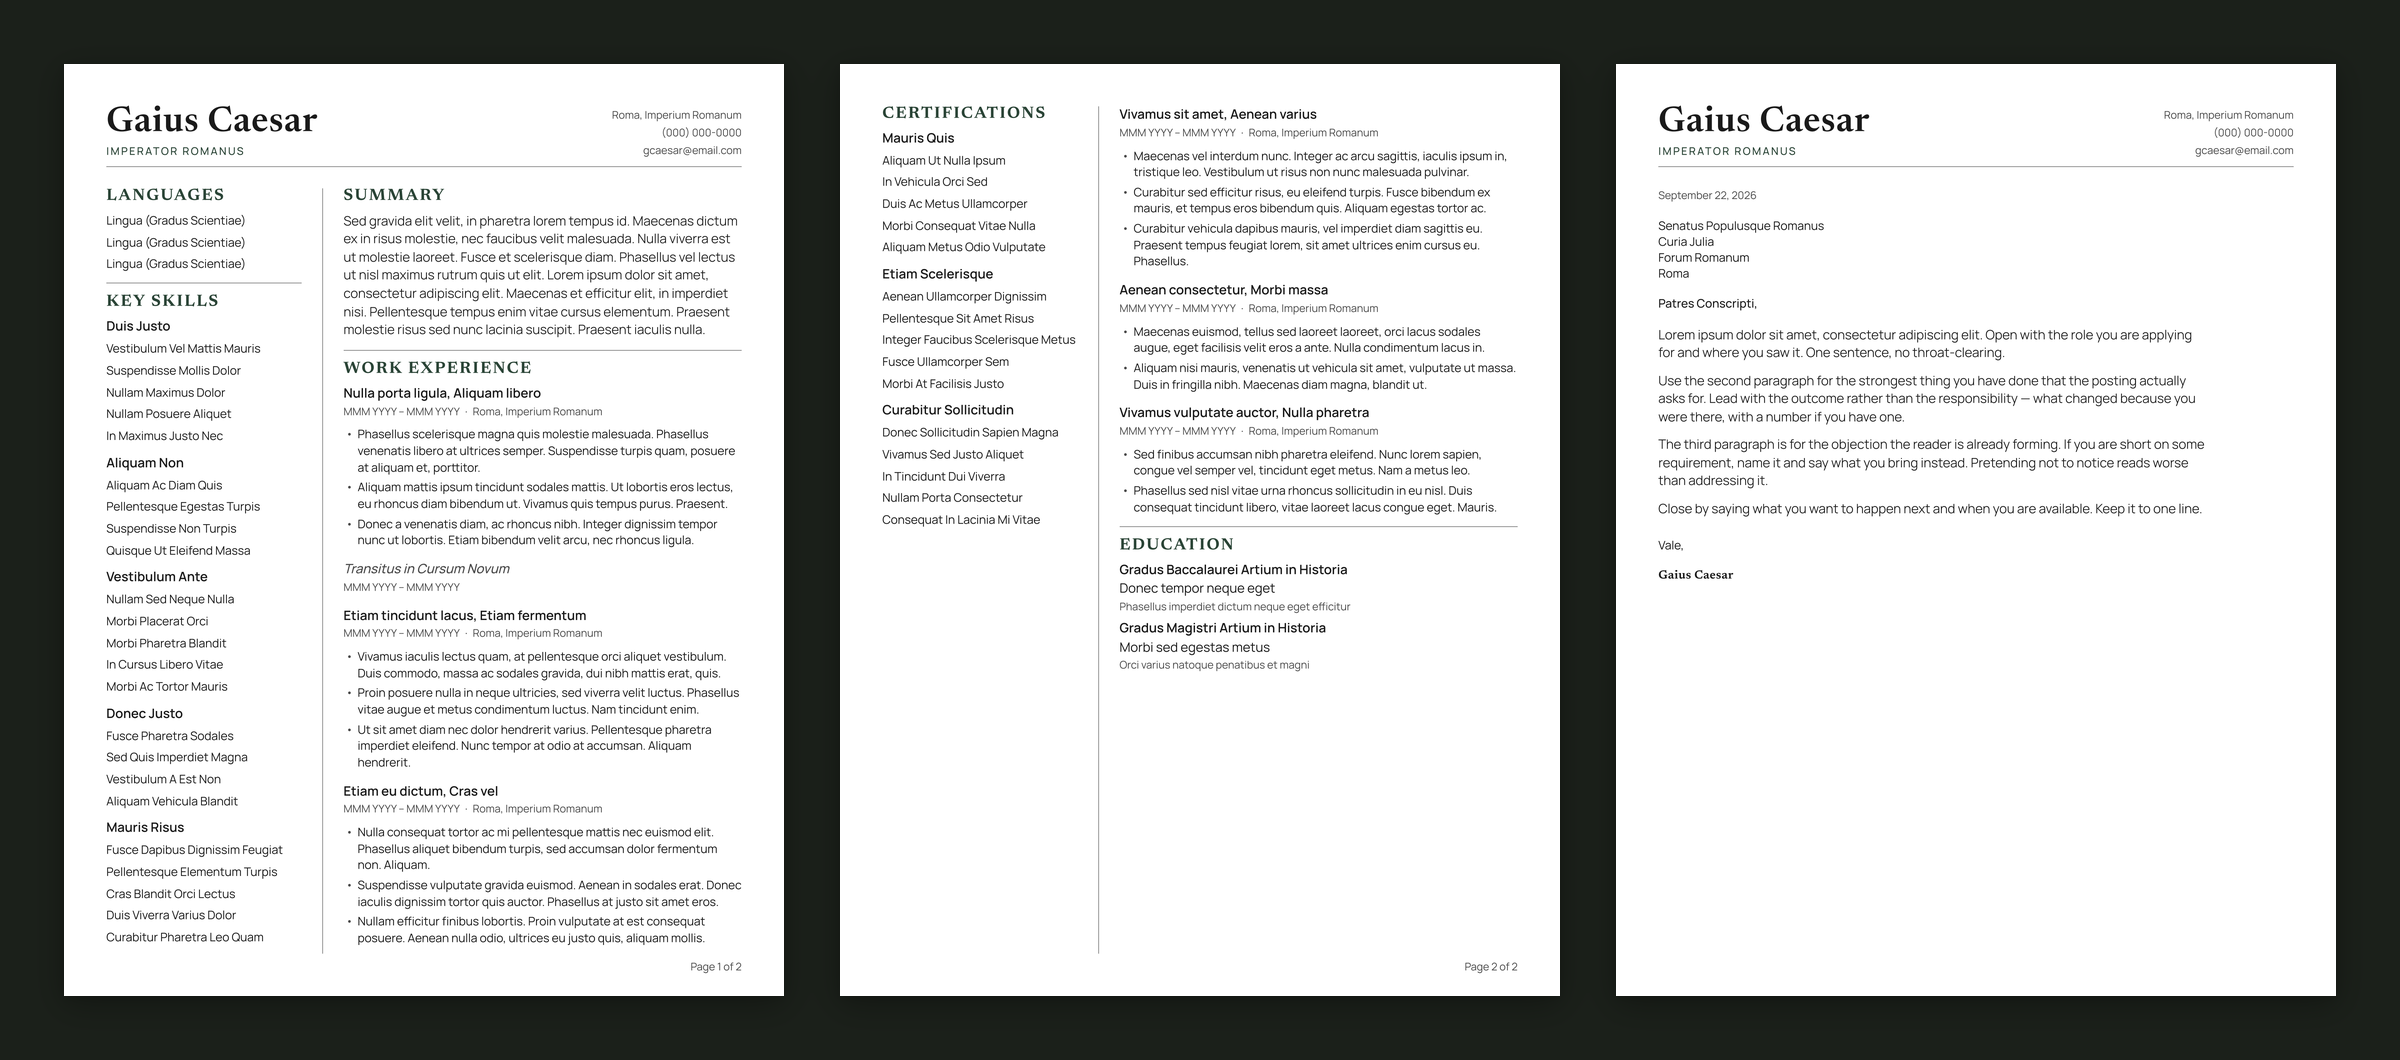
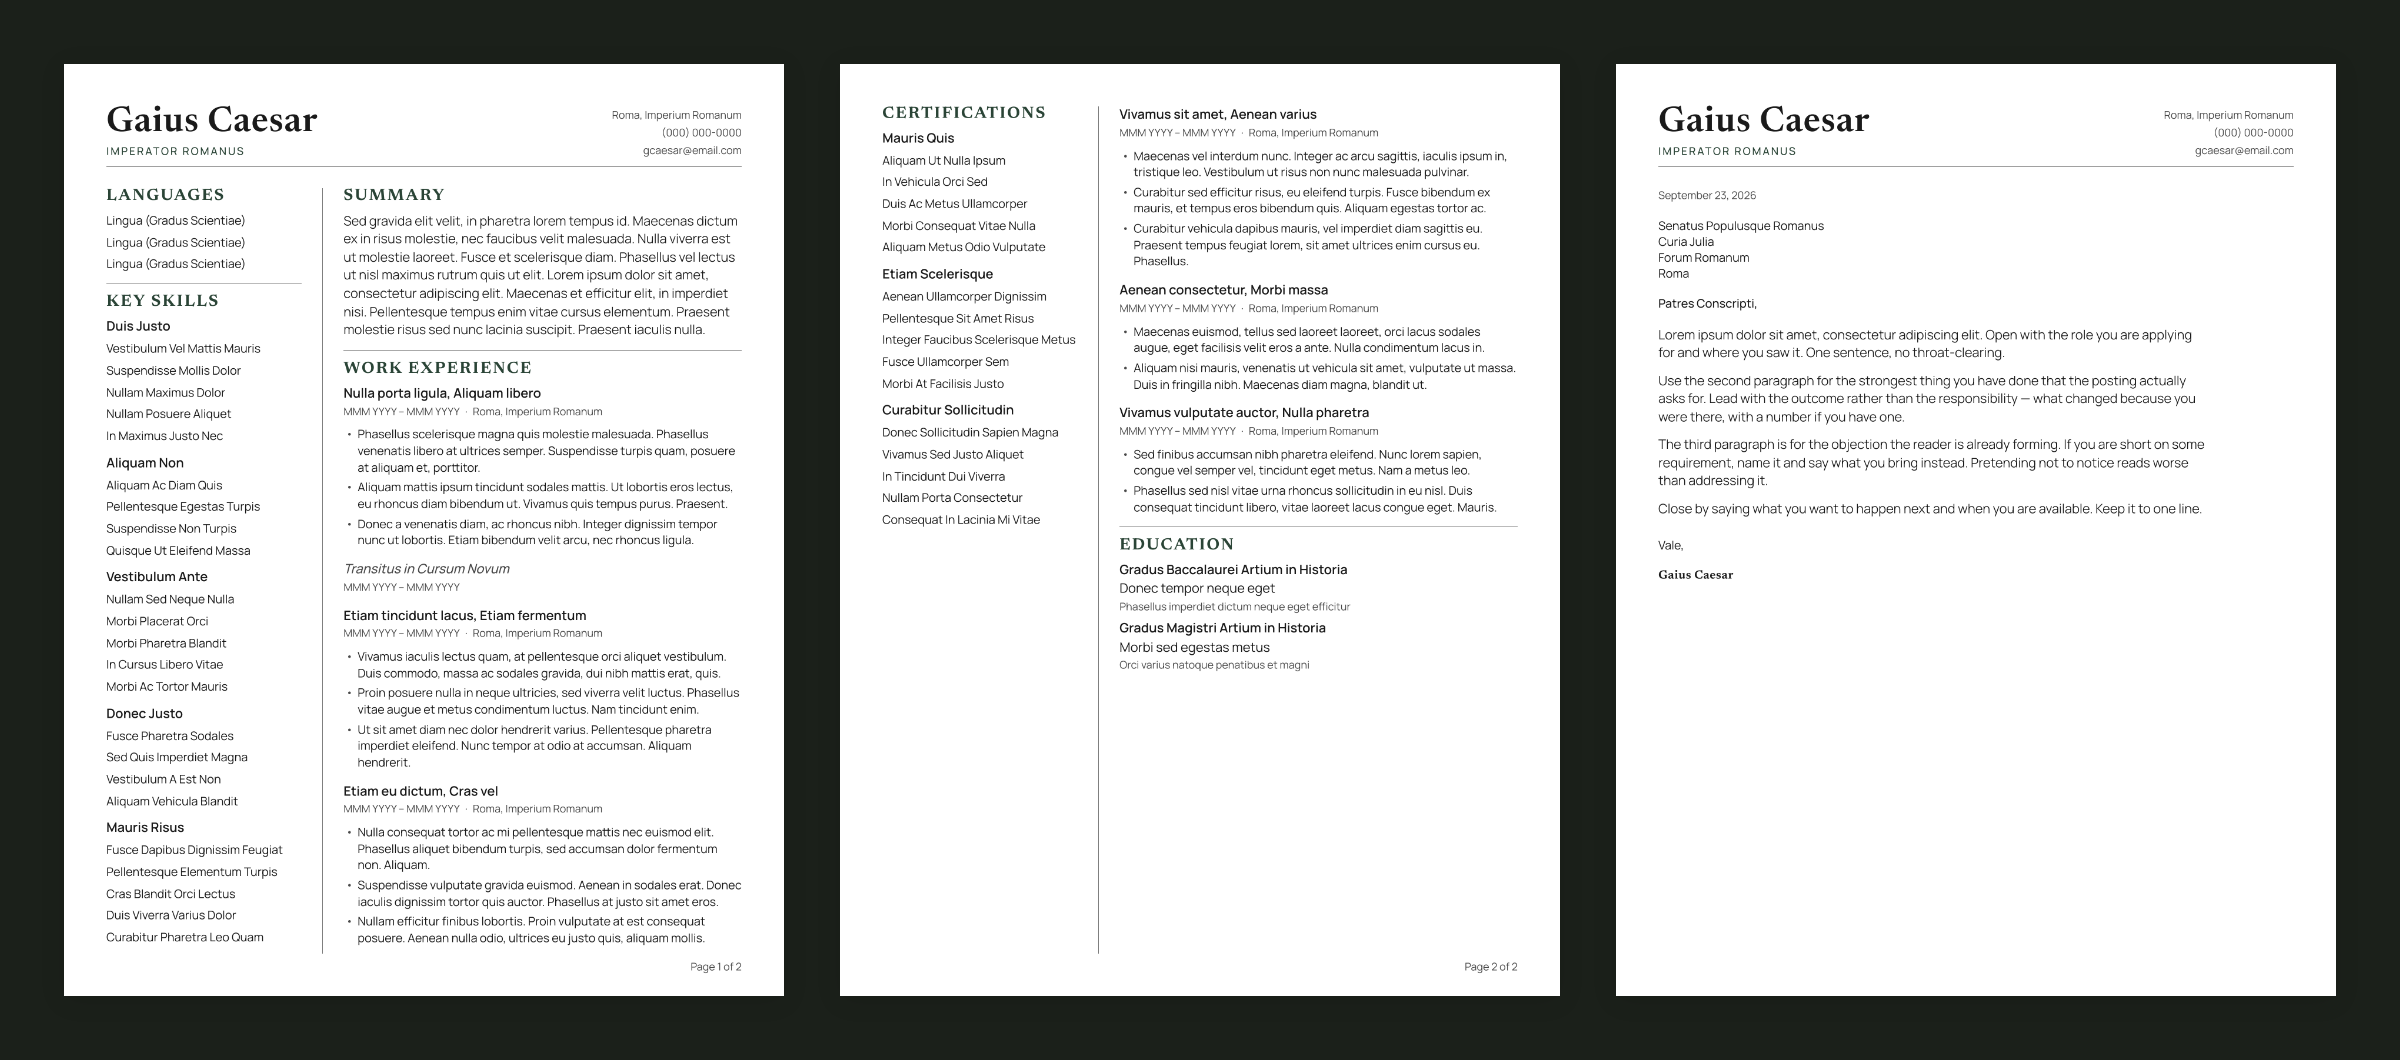
Docs: fix stale README wording, rebuild screenshots
The snapshot section still described two PDFs per build (any variant,
both built PDFs, Resume*.pdf); it now describes one. Six test suites
launch Chromium, not seven, since test_print_parallel.js went.
Auto-bootstrap creates only the current data source's fixture, and
the text now says so.

Screenshots recaptured in one session. The previous Studio captures
fell back to system fonts (the UI's Google Fonts request was
unreachable), showed a cached no-op render in the inspector, and
documents.png carried a letter dated a day earlier than the rest.

Changed region(s): [[0.1562, 0.4358, 0.1875, 0.467]]

diff --git a/README.md b/README.md
@@ -554,7 +554,7 @@ your profile: `dist/Gaius_Caesar_Resume.pdf`.
 ```
 
 Step 7 is a gate — the build stops if it fails. Step 0 is a gate when
-it runs. Step 10 reports and does not block: the PDFs are written
+it runs. Step 10 reports and does not block: the PDF is written
 before it runs, so a difference is news about the document rather than
 a reason to withhold it. `RESUME_SNAPSHOT=strict` restores blocking,
 for CI.
@@ -761,7 +761,7 @@ slow visual-regression snapshot test for the rendered PDFs.
 ### Unit tests
 
 Python and JavaScript test files live in `tests/`. Most are fast
-pure-logic tests; seven launch Chromium.
+pure-logic tests; six launch Chromium.
 
 | Test                          | What it covers                              |
 |-------------------------------|---------------------------------------------|
@@ -835,12 +835,12 @@ treats the argument as a Python `unittest` dotted path.
 doesn't try to import its heavy dependencies (`pypdfium2`, `Pillow`).
 It is **off by default**; tick "Compare against snapshot" in the
 Studio, or set `RESUME_SNAPSHOT=on` on the command line. It rasterizes
-the freshly built resume PDFs (`dist/<First>_<Last>_Resume*.pdf`,
-found through `dist/pdf_meta.json`), compares each page-by-page to a
-committed fixture, and reports any variant whose visible pixels
-changed beyond the configured tolerance.
+the freshly built resume PDF (`dist/<First>_<Last>_Resume.pdf`,
+found through `dist/pdf_meta.json`), compares it page by page to a
+committed fixture, and reports whether its visible pixels changed
+beyond the configured tolerance.
 
-It reports rather than fails, because the PDFs are already written by
+It reports rather than fails, because the PDF is already written by
 the time it runs — a difference is news about the document, not a
 reason to withhold it. `RESUME_SNAPSHOT=strict` makes it fail the
 build instead, which is what you want in CI.
@@ -874,9 +874,10 @@ silently compared your resume against the template.
 #### First build (no fixtures yet)
 
 Build with "Compare against snapshot" ticked. The snapshot step
-auto-bootstraps any missing fixture from the resume PDFs just built
-in `dist/` and prints a notice. Subsequent builds diff against
-the fixtures. Inspect the PDFs visually before committing them.
+bootstraps the fixture for the current data source from the resume
+PDF just built in `dist/`, if it is missing, and prints a notice.
+Subsequent builds diff against it. Inspect the fixture visually
+before committing it.
 
 #### Refreshing after an intentional change
 
@@ -917,7 +918,7 @@ py build/snapshot_pdf.py
 ```
 
 Useful when iterating on tolerances or inspecting a regression without
-rebuilding. Requires both built PDFs to already exist; it finds them
+rebuilding. Requires the built resume PDF to already exist; it finds it
 through `dist/pdf_meta.json` rather than by name.
 
 ## Debugging from the command line
@@ -1137,7 +1138,7 @@ starting the Studio: `set "PYTHON=py" && npm run studio` in cmd, or
 
 **The snapshot reports a difference after a CSS edit and the diff image looks correct.**
 That's it doing its job — any visible change, intentional or not, fires
-it. Note that it *reports*; your PDFs were written before it ran. If the
+it. Note that it *reports*; your PDF was written before it ran. If the
 change is intentional, refresh the fixtures with
 `python build/snapshot_pdf.py --update` (or `--update-all` for both
 data sources).
